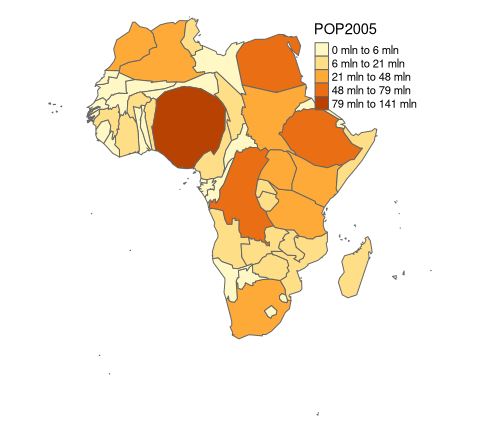
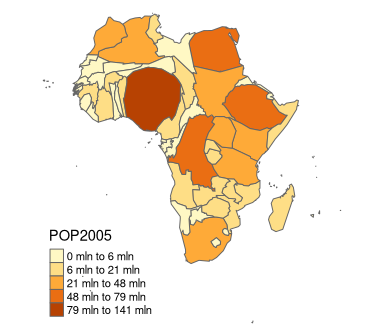
fix legend position

diff --git a/README.md b/README.md
@@ -53,6 +53,7 @@ library(maptools)
 
 data(wrld_simpl)
 
+# keep only the african continent
 afr <- wrld_simpl[wrld_simpl$REGION == 2, ]
 
 # project the map
@@ -70,7 +71,7 @@ afr_cont <- cartogram_cont(afr, "POP2005", itermax = 5)
 
 # plot it
 tm_shape(afr_cont) + tm_polygons("POP2005", style = "jenks") +
-  tm_layout(frame = FALSE)
+  tm_layout(frame = FALSE, legend.position = c("left", "bottom"))
 ```
 
 ![](man/figures/README-cont-1.png)<!-- -->
@@ -86,7 +87,7 @@ afr_ncont <- cartogram_ncont(afr, "POP2005")
 # plot it
 tm_shape(afr) + tm_borders() +
   tm_shape(afr_ncont) + tm_polygons("POP2005", style = "jenks") +
-  tm_layout(frame = FALSE)
+  tm_layout(frame = FALSE, legend.position = c("left", "bottom"))
 ```
 
 ![](man/figures/README-ncont-1.png)<!-- -->
@@ -102,7 +103,7 @@ afr_dorling <- cartogram_dorling(afr, "POP2005")
 # plot it
 tm_shape(afr) + tm_borders() +
   tm_shape(afr_dorling) + tm_polygons("POP2005", style = "jenks") +
-  tm_layout(frame = FALSE)
+  tm_layout(frame = FALSE, legend.position = c("left", "bottom"))
 ```
 
 ![](man/figures/README-dorling-1.png)<!-- -->
